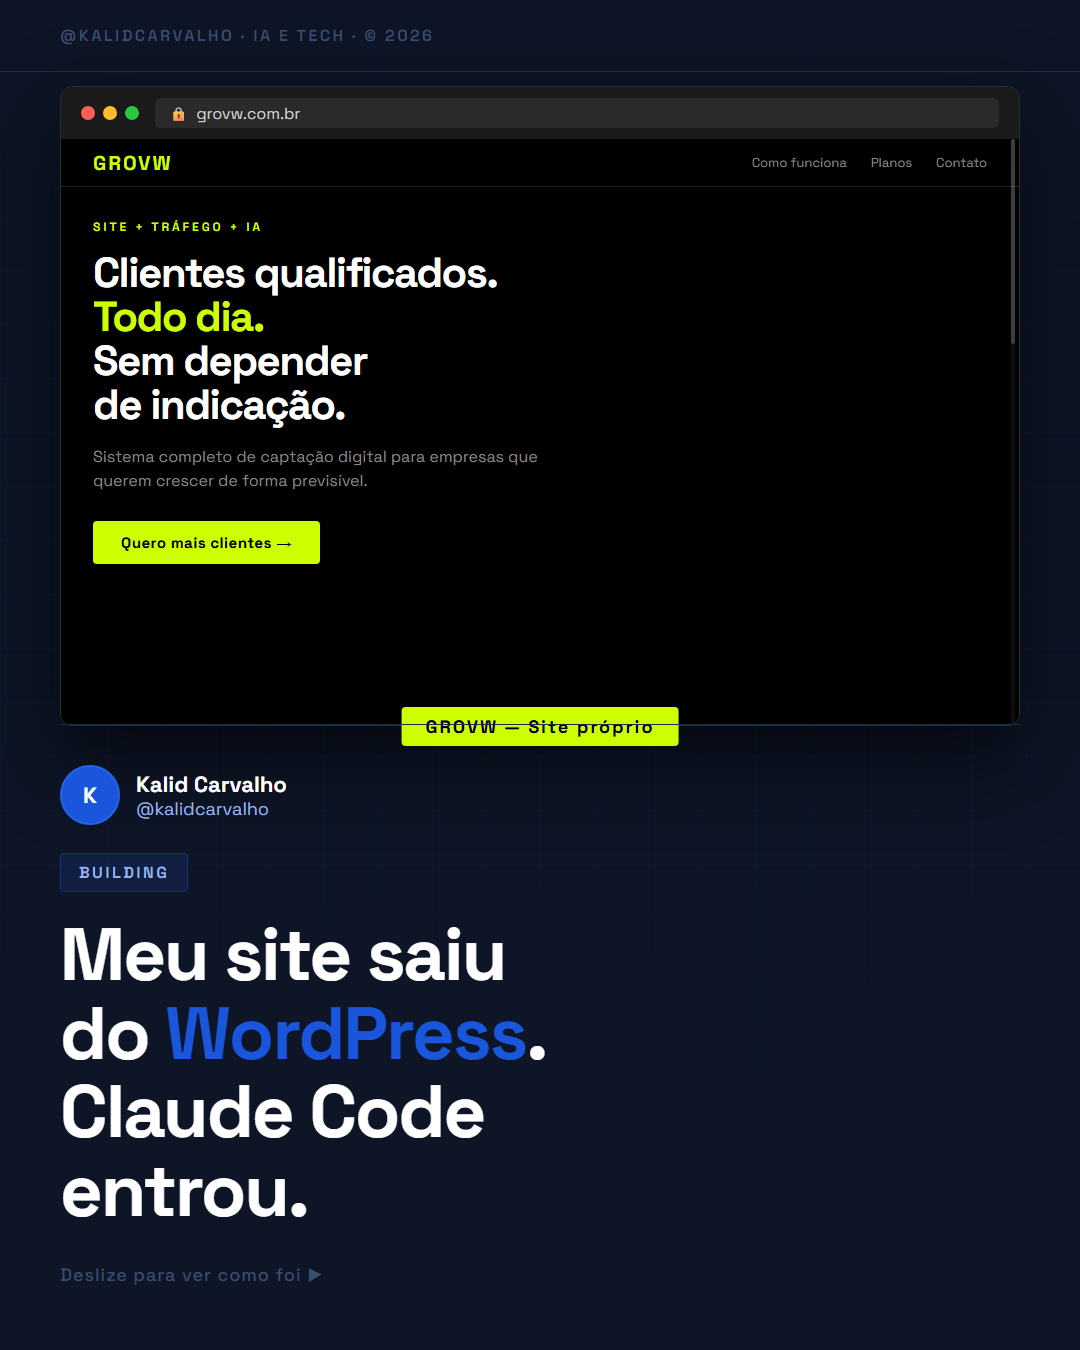
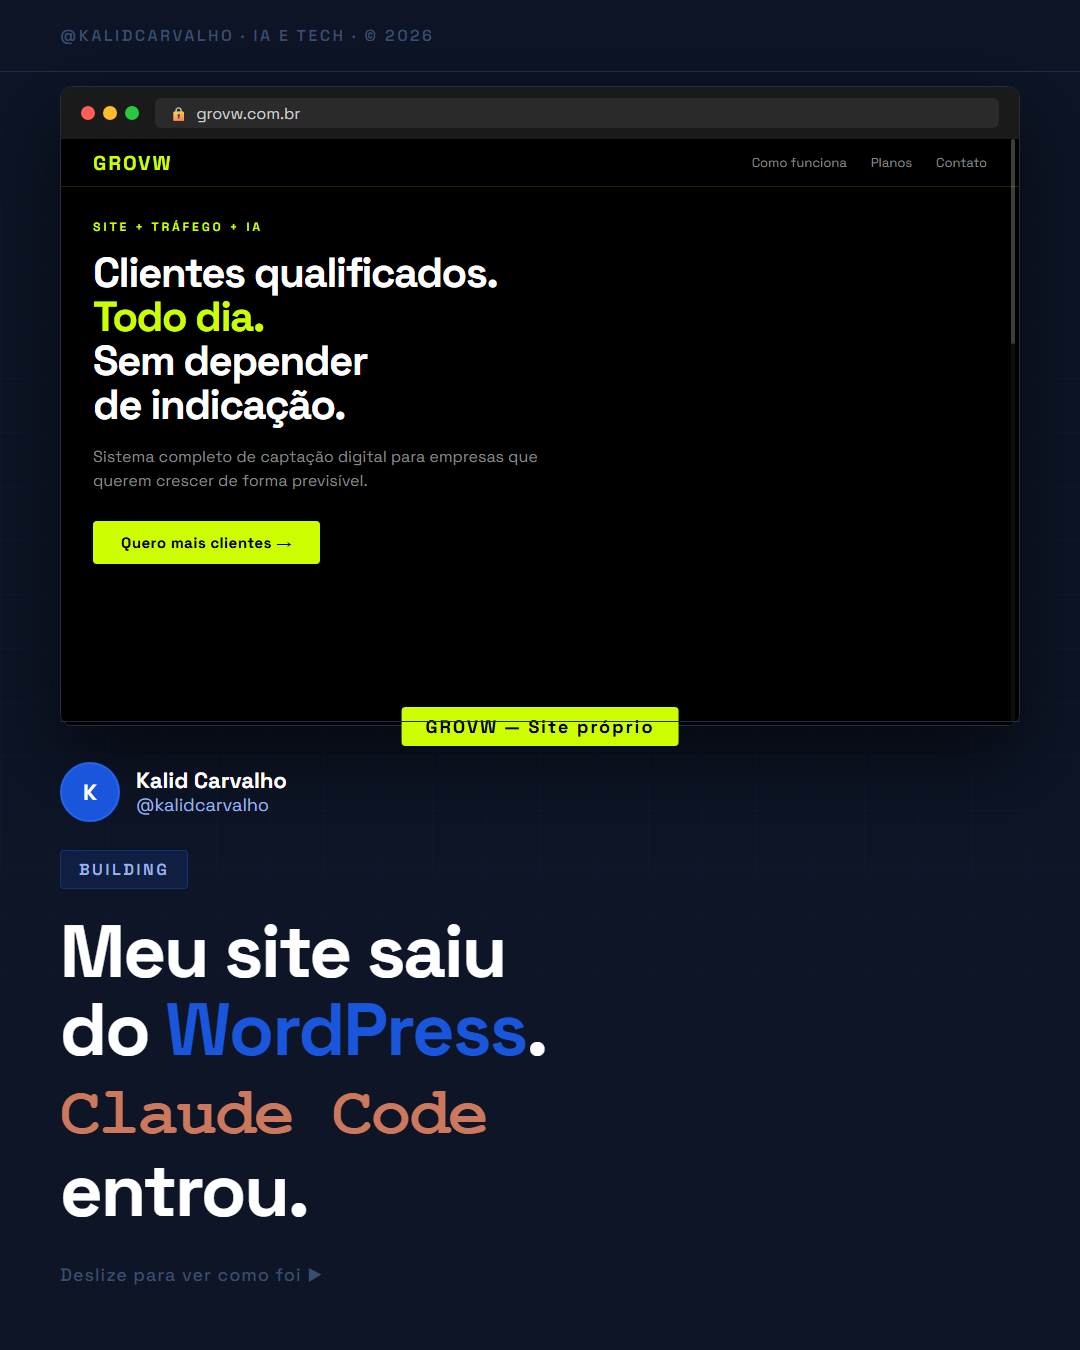
auto-sync: 2026-04-13 19:50

Changed region(s): [[0.0611, 0.6844, 0.4889, 0.84], [0.0611, 0.56, 0.275, 0.6533]]

diff --git a/conteudo/carrosseis/migracao-wordpress-html/instagram/slide-01.html b/conteudo/carrosseis/migracao-wordpress-html/instagram/slide-01.html
@@ -289,6 +289,7 @@
     }
 
     .title .accent { color: #1A56DB; }
+    .title .claude { color: #CC785C; font-family: 'JetBrains Mono', 'Courier New', monospace; font-size: 68px; }
 
     .swipe {
       font-size: 18px; font-weight: 500;
@@ -349,7 +350,7 @@
       </div>
     </div>
     <div class="tag">Building</div>
-    <div class="title">Meu site saiu<br>do <span class="accent">WordPress</span>.<br>Claude Code<br>entrou.</div>
+    <div class="title">Meu site saiu<br>do <span class="accent">WordPress</span>.<br><span class="claude">Claude Code</span><br>entrou.</div>
     <div class="swipe">Deslize para ver como foi ▶</div>
   </div>
 </body>
